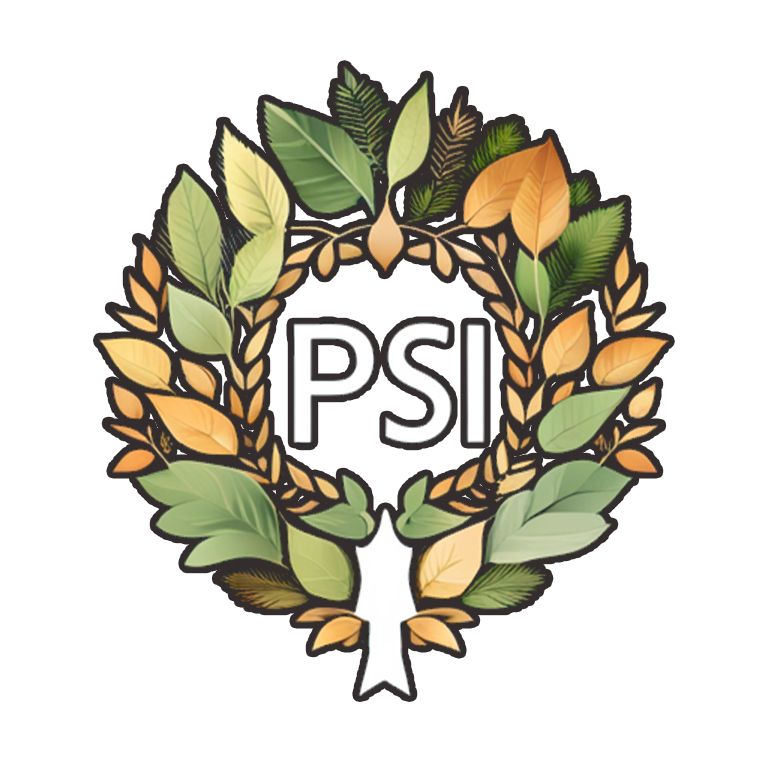
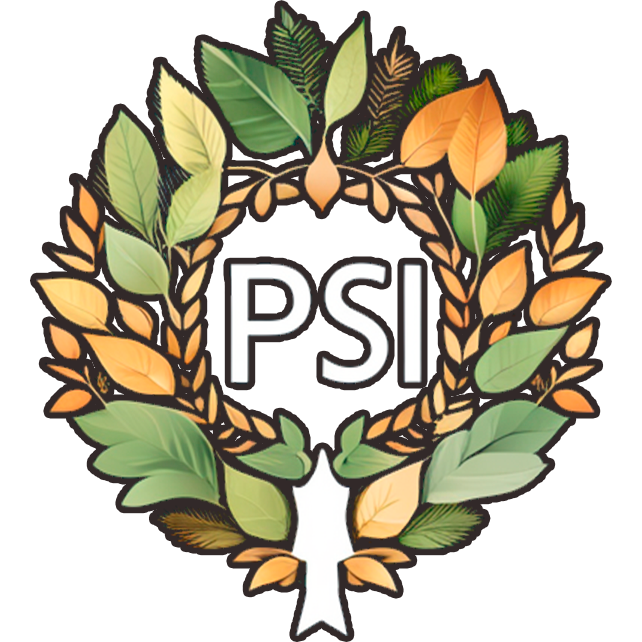
004

diff --git a/src/Componentes/PSI/UserGuide.jsx b/src/Componentes/PSI/UserGuide.jsx
@@ -1,8 +1,15 @@
 import React from 'react';
 
+import Arduino1 from '../../Assets/Images/GuiaDeUsuario/002.png'
+
+import Frontal from '../../Assets/Images/GuiaDeUsuario/Frontal.png'
+import Bomba from '../../Assets/Images/GuiaDeUsuario/Bomba de awa.png'
+import Riego from '../../Assets/Images/GuiaDeUsuario/Tierra y tuberias.png'
+import Calefaccion from '../../Assets/Images/GuiaDeUsuario/Iluminacion.png'
+
 function UserGuide() {
   return (
-    <div className="container shadow">
+    <div className="container">
       <br />
 
       <div className="container text-center">
@@ -11,7 +18,7 @@ function UserGuide() {
         </label>
       </div>
 
-      <div className="container">
+      <div className="container shadow p-3 rounded">
         <a data-bs-toggle="collapse" href="#Herramientas" role="button">
           <label style={{ fontSize: '20px', fontWeight: 'bold', color: 'black' }}>
             &raquo; Herramientas necesarias
@@ -30,7 +37,7 @@ function UserGuide() {
                 <img src="~/Assets/Images/GuiaDeUsuario/001.png" alt="Arduino_IDE" width="190" />
               </div>
               <div className="container text-center">
-                <img src="~/Assets/Images/GuiaDeUsuario/002.png" alt="Arduino_IDE" width="700" />
+                <img src={Arduino1} alt="Arduino_IDE" width="700" />
               </div>
             </div>
             <br />
@@ -45,7 +52,7 @@ function UserGuide() {
 
       <br />
 
-      <div className="container">
+      <div className="container shadow p-3 rounded">
         <a data-bs-toggle="collapse" href="#ArduinoIDE" role="button">
           <label style={{ fontSize: '20px', fontWeight: 'bold', color: 'black' }}>
             &raquo; Arduino IDE
@@ -160,7 +167,7 @@ function UserGuide() {
 
       <br />
 
-      <div className="container">
+      <div className="container shadow p-3 rounded">
         <a data-bs-toggle="collapse" href="#Incubadora" role="button">
           <label style={{ fontSize: '20px', fontWeight: 'bold', color: 'black' }}>
             &raquo; Incubadora
@@ -168,55 +175,67 @@ function UserGuide() {
         </a>
 
         <div className="collapse" id="Incubadora">
+
           <div className="container">
             <br />
-            <label>
+            <div className='container'>
+            <label className='fw-bold'>
               La incubadora consta de muchas partes
             </label>
+            </div>
             <br />
             <div className="container">
-              <div className="text-center">
+              <div >
                 <label style={{ fontSize: '20px', fontWeight: 'bold' }}>
                   Vista Frontal de la incubadora
                 </label>
                 <br />
-                <img src="~/Assets/Images/GuiaDeUsuario/Frontal.png" alt="Parte de la incubadora" width="800" />
+                <div className='row mx-auto'>
+                <img src={Frontal} alt="Parte de la incubadora" width="800" />
+                </div>
                 <br />
                 <label>Se muetsra la vista frontal de la incubadora, como se ve en la imagen el cuerpo de la incubadora consta de dos partes que se desacoplan, el cuerpo de la incubadora y la tapa</label>
 
               </div>
               <br />
-              <div className="text-center">
+              <div >
                 <label style={{ fontSize: '20px', fontWeight: 'bold' }}>
                   Bomba de agua
                 </label>
                 <br />
-                <img src="~/Assets/Images/GuiaDeUsuario/Bomba de awa.png" alt="Parte de la incubadora" width="800" />
+                <div className='row mx-auto'>
+                <img src={Bomba} alt="Parte de la incubadora" width="800" />
+                </div>
                 <br />
                 <label>La bomba de agua se activa siguiendo la logica que se mostro en la seccion de la explicacion del codigo</label>
               </div>
               <br />
-              <div className="text-center">
+              <div >
                 <label style={{ fontSize: '20px', fontWeight: 'bold' }}>
                   Sistema de riego y ventilacion
                 </label>
                 <br />
-                <img src="~/Assets/Images/GuiaDeUsuario/Tierra y tuberias.png" alt="Parte de la incubadora" width="800" />
+                <div className='row mx-auto'>
+                <img src={Riego} alt="Parte de la incubadora" width="800" />
+                </div>
                 <br />
                 <label>Se muestra como esta la distribucion de las tuberias de riego, y el acceso para la ventilacion, ambos se activan siguiendo la logica que se mostro en la seccion de la explicacion del codigo</label>
               </div>
               <br />
-              <div className="text-center">
+              <div >
                 <label style={{ fontSize: '20px', fontWeight: 'bold' }}>
                   Sistema de calefaccion
                 </label>
                 <br />
-                <img src="~/Assets/Images/GuiaDeUsuario/Iluminacion.png" alt="Parte de la incubadora" width="800" />
+                <div className='row mx-auto'>
+                <img src={Calefaccion} alt="Parte de la incubadora" width="800" />
+                </div>
                 <br />
                 <label>Como se puede observar el sistema de calefacicon funciona por medio de una bombilla la cual se activa siguiendo la logica que se mostro en la seccion de la explicacion del codigo</label>
               </div>
               <br />
             </div>
+
           </div>
         </div>
 

diff --git a/src/Componentes/PSI/System.jsx b/src/Componentes/PSI/System.jsx
@@ -1,8 +1,75 @@
 import React from 'react'
+import PlantaCafe from '../../Assets/Images/cscs.jpg'
 
 function System() {
   return (
-    <div>System</div>
+
+    <div>
+
+    
+
+    <div className='container shadow p-3 rounded'>
+
+      <div className='row'>
+      <h1>La incubadora de semillas </h1>
+      </div>
+      <br />
+      <div className='row'>
+        <p>El Proyecto PSI (Portable Seed Incubator) es una innovadora creación diseñada con el propósito de proporcionar una solución portátil para la incubación de semillas. Inicialmente concebido para adaptarse a diversas variedades de semillas, los creadores decidieron enfocar su enfoque en el cultivo de café, reconociendo su importancia global y el potencial de crecimiento en este sector.
+
+        <br />
+        <br />
+        
+        La incubadora portátil PSI ofrece una plataforma versátil y eficiente para el cultivo de semillas de café en diversas ubicaciones y condiciones ambientales.Equipada con tecnología basada en Arduino, la incubadora PSI proporciona un entorno óptimo para el desarrollo saludable de las semillas de café. Los parámetros de temperatura, humedad y luz se controlan de manera precisa y se ajustan según las necesidades específicas de las semillas, garantizando condiciones ideales para su germinación y crecimiento inicial. 
+        
+        <br />
+        <br />
+        
+        Además, el Proyecto PSI se ha desarrollado teniendo en cuenta la sostenibilidad y la conservación del medio ambiente. La incubadora utiliza materiales reciclables y de bajo impacto ambiental, y también incorpora tecnologías de eficiencia energética para minimizar el consumo de recursos y reducir las emisiones.
+
+        <br />
+        <br />
+
+        Con el enfoque específico en el cultivo de café, el Proyecto PSI busca mejorar la calidad y la productividad del café a nivel local y global. Al proporcionar a los agricultores una herramienta accesible y confiable, se fomenta la diversificación de las fuentes de ingresos y se promueve la autosuficiencia en la producción de café.
+
+        </p>
+        <br/>
+      </div>
+
+      <div className='row'>
+
+        <img src={PlantaCafe} alt="Planta de cafe" />
+
+      </div>
+
+    </div>
+
+    <br />
+
+    <div className='container shadow'>
+
+    <div className='row'>
+      <h1>Acerca del producto</h1>
+    </div>
+    <div className='row'>
+      <p>Los usuarios que adquieran el producto tendran que tener en consideracion que los siguientes componentes tendran que correr por cuenta de el usuario que adquiere el producto.</p>
+    </div>
+
+    <div className='row'>
+      <p><strong>Bomba de agua:</strong>&nbsp;Esta debera contar con la potencia de 1HP, para poder otorgar la presion suficiente para el sistema de aspersion.</p>
+    </div>
+    <div className='row'>
+      <p><strong>Sustrato:</strong>&nbsp;Comunmente conocido como abono, puede ser vegetal o de origen animal.</p>
+    </div>
+    <div className='row'>
+      <p><strong>Contenedor de agua:</strong>&nbsp;Con una capacidad aproximada de 1,000L para un flujo constante de agua, tomando en cunta que al contenedor debe estar adecuado un filtro para eliminar las impurezas que podrian obstruir el sistema de aspersion. </p>
+    </div>
+
+    </div>
+
+    <br />
+
+    </div>
   )
 }
 

diff --git a/src/Componentes/Navbar/navBar.jsx b/src/Componentes/Navbar/navBar.jsx
@@ -1,32 +1,36 @@
 import React from 'react'
 import { Link } from 'react-router-dom'
 
+import Home from '../../Assets/Images/Escudo_PSI.png'
 
 function navBar() {
     return (
 
-        <nav className="navbar navbar-expand-lg bg-success-subtle">
+        <nav className="navbar navbar-expand-lg shadow fw-bold" style={{backgroundColor: "darkkhaki"}}>
             <div className="container-fluid">
-                <Link className="navbar-brand" to={'/'}>PSI</Link>
+                <Link className="navbar-brand" to={'/'}>
+                    
+                    <img src={Home} width={58} alt="Escudo de PSI" />
+                </Link>
                 <button className="navbar-toggler" type="button" data-bs-toggle="collapse" data-bs-target="#navbarNav" aria-controls="navbarNav" aria-expanded="false" aria-label="Toggle navigation">
                     <span className="navbar-toggler-icon"></span>
                 </button>
                 <div className="collapse navbar-collapse" id="navbarNav">
-                    <ul className="navbar-nav mx-auto">
-                        <li className="nav-item">
+                    <ul className="navbar-nav">
+                        {/* <li className="nav-item">
                             <Link className="nav-link active" aria-current="page" to={'/'}>Inicio</Link>
+                        </li> */}
+                        <li className="nav-item">
+                            <Link className="nav-link link-light" to={'/acerca'}>Sobre PSI</Link>
                         </li>
                         <li className="nav-item">
-                            <Link className="nav-link" to={'/acerca'}>Sobre PSI</Link>
+                            <Link className="nav-link link-light" to={'/PSI'}>Sobre el Sistema</Link>
                         </li>
                         <li className="nav-item">
-                            <Link className="nav-link" to={'/contacto'}>Contacto</Link>
+                            <Link className="nav-link link-light" to={'/GuiaDeUsuario'}>Guia de usuario PSI</Link>
                         </li>
                         <li className="nav-item">
-                            <Link className="nav-link" to={'/PSI'}>Sistema</Link>
-                        </li>
-                        <li className="nav-item">
-                            <Link className="nav-link" to={'/GuiaDeUsuario'}>Guia de usuario PSI</Link>
+                            <Link className="nav-link link-light" to={'/contacto'}>Contactanos</Link>
                         </li>
                     </ul>
                 </div>

diff --git a/src/Componentes/Home/Contact.jsx b/src/Componentes/Home/Contact.jsx
@@ -2,7 +2,15 @@ import React from 'react'
 
 function Contact() {
   return (
-    <div>Contact</div>
+    <div className='container shadow p-3 rounded'>
+        <div className='row'>
+          <h1>Contacto</h1>
+        </div>
+
+        <div className='row'>
+          <p> Contactanos via correo electronico </p>
+        </div>
+    </div>
   )
 }
 
